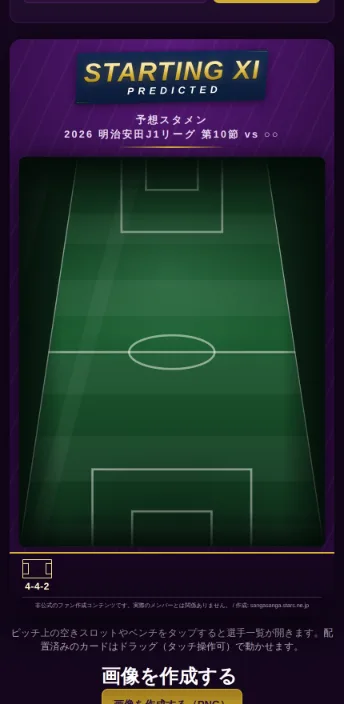
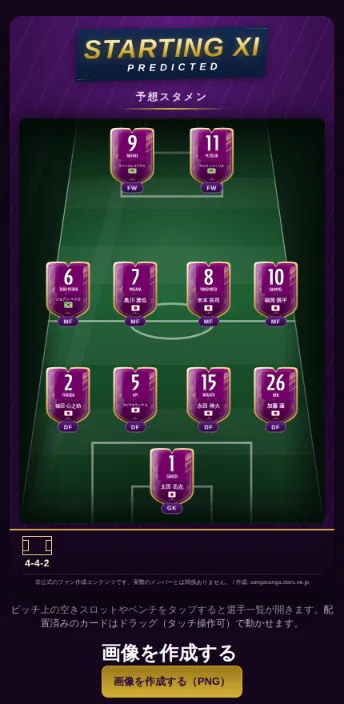
入口ページに作り手のアイコンと自己紹介を入れ、カード下を説明文にする (#187)
* 入口ページのカード下を説明文にし、予想スカッドのサムネイルを撮り直す

- 分類タグをやめ、tools.json の description をそのままカード下に置く。
  参考にしたサイトは短い分類タグだが、道具箱では「何ができるページか」の
  ほうが訪問者が選ぶ助けになる
- 予想スカッドのサムネイルが空のピッチだったので、11人を埋めてから
  撮り直した。何をするツールか絵で伝わらなかった

サムネイルの撮影は public/ をサイトルートとして配信するようにした。
squad.html は /data/players.json をルート起点で読むため、public/ より
上を見せると実データを読めず、同梱の架空サンプルへ落ちていた。

Chromium で検証: 390px幅で1列、1100px幅で2列、カード5件すべてに
説明文とサムネイルが表示、横スクロールなし、ナビのタップ領域44px、
JSエラーと404なし。

* 入口ページのABOUTに作り手の自己紹介を足す

免責より先に置く。誰が作っているかが分かるほうが、非公式のサイトとしては
かえって信用の判断がしやすい。Xへの導線もあわせて置く。

Xのアイコンを入れたときの受け皿（.topbar-mark img）も用意した。画像が
無いあいだは、これまでどおりキャラクターが出る。

Chromium で検証: 自己紹介が表示、Xリンクのタップ領域44px、
390px幅で1列・1100px幅で2列、JSエラーと404なし。

* Add files via upload

* 入口ページの左上を作り手のアイコンにする

アップロードいただいた400×400のPNGを、128×128のWebPへ落として使う
（45.3KB → 4.2KB）。上部バーでの表示は34pxなので、この大きさで足りる。

元画像は白地の正方形なので、丸く抜いたうえで薄い縁を足し、暗い背景から
浮くようにした。絵は34pxだが、リンクの当たり判定は44pxを保つ。

元のPNGは変換元として役目を終えたため削除した。

Chromium で検証: アイコンが読み込まれ34pxで表示、タップ領域44px、
390px幅で1列・1100px幅で2列、JSエラーと404なし。

---------

diff --git a/experiments/site-index/prototype.css b/experiments/site-index/prototype.css
@@ -200,7 +200,10 @@ body {
 }
 
 .topbar-mark {
-  display: block;
+  display: flex;
+  align-items: center;
+  /* 34pxの絵だけだとタップ領域が足りない。当たり判定は44pxにする */
+  min-height: var(--tap);
   width: 34px;
   flex: none;
 }
@@ -338,12 +341,13 @@ body {
   letter-spacing: 0.02em;
 }
 
-.work-tags {
+/* 参考にしたサイトはここが短い分類タグだが、道具箱では
+   「何ができるページか」を1文で置く。分類より用途のほうが選ぶ助けになる */
+.work-desc {
   display: block;
-  margin-top: 3px;
-  font-size: 0.68rem;
-  font-weight: 600;
-  letter-spacing: 0.14em;
+  margin-top: 4px;
+  font-size: 0.8rem;
+  line-height: 1.6;
   color: var(--ink-dim);
 }
 
@@ -384,6 +388,36 @@ body {
 }
 
 .about p { margin: 0 0 8px; max-width: 60ch; }
+
+/* 作り手の自己紹介。免責より先に置き、誰が作っているかを分かるようにする */
+.about-bio {
+  color: var(--ink);
+  font-size: 0.88rem;
+  line-height: 1.9;
+}
+
+.about-handle { margin-bottom: 18px !important; }
+
+.about-handle a {
+  display: inline-flex;
+  align-items: center;
+  min-height: var(--tap);
+  color: var(--cyan-soft);
+  text-decoration: none;
+  letter-spacing: 0.04em;
+}
+
+.about-handle a:hover,
+.about-handle a:focus-visible { text-decoration: underline; }
+
+/* 元画像は白地の正方形。丸く抜いて、暗い背景から浮くように縁を足す */
+.topbar-mark img {
+  display: block;
+  width: 100%;
+  height: auto;
+  border-radius: 50%;
+  box-shadow: 0 0 0 1px rgba(255, 255, 255, 0.28);
+}
 
 .site-footer {
   max-width: 1040px;

diff --git a/experiments/site-index/prototype.html b/experiments/site-index/prototype.html
@@ -23,10 +23,8 @@
 
 <header class="topbar">
   <a class="topbar-mark" href="#top" aria-label="ページの先頭へ">
-    <span class="squircle squircle-sm" aria-hidden="true">
-      <span class="eye"></span>
-      <span class="eye"></span>
-    </span>
+    <!-- 作り手のアイコン。リンクにaria-labelがあるのでaltは空にする -->
+    <img src="avatar.webp" alt="" width="128" height="128" decoding="async">
   </a>
   <nav class="topbar-nav" aria-label="サイト内">
     <a href="#works">TOOLS</a>
@@ -81,6 +79,10 @@
 
 <section class="about" id="about">
   <h2 class="about-title">ABOUT</h2>
+
+  <p class="about-bio">大阪から京都サンガを応援しています／2001年から観戦／主にゴール裏近くのバックスタンド2階／息子小4サッカーチーム所属／彦根出身</p>
+  <p class="about-handle"><a href="https://x.com/kou_osakacity" target="_blank" rel="noopener noreferrer">@kou_osakacity</a></p>
+
   <p>京都サンガF.C.の公式サイトではありません。サポーター有志による非公式のファン作成物です。</p>
   <p>掲載内容の正確性について作成者は責任を負いません。日程・会場・対戦カードなどは、必ず公式発表を確認してください。</p>
 </section>

diff --git a/experiments/site-index/prototype.js b/experiments/site-index/prototype.js
@@ -26,8 +26,6 @@ function buildWork(tool, index) {
   const link = document.createElement("a");
   link.className = "work-link";
   link.href = tool.href;
-  // 説明文はカードには出さない。ポインタを乗せたときだけ補足として見せる
-  if (tool.description) link.title = tool.description;
 
   const thumb = document.createElement("span");
   thumb.className = "work-thumb";
@@ -51,10 +49,10 @@ function buildWork(tool, index) {
   name.textContent = tool.name;
   link.append(name);
 
-  const tags = document.createElement("span");
-  tags.className = "work-tags";
-  tags.textContent = (tool.tags ?? []).join(" , ");
-  link.append(tags);
+  const desc = document.createElement("span");
+  desc.className = "work-desc";
+  desc.textContent = tool.description;
+  link.append(desc);
 
   item.append(link);
   return item;

diff --git a/docs/site-index.md b/docs/site-index.md
@@ -46,7 +46,7 @@
 その構成の要点は3つです。
 
 1. **見出しで区切らない。** 作品を等間隔のグリッドに流す。
-2. **分類は見出しではなくタグで示す。** カード下に「ART DIRECTION , WEB DESIGN」のような小さな欧文を置く。
+2. **分類は見出しではなくカード下のテキストで示す。** 参考サイトは「ART DIRECTION , WEB DESIGN」のような短い分類タグだが、道具箱では `description` の1文をそのまま置く。分類より用途のほうが、訪問者が選ぶ助けになるため。
 3. **一枚絵が主役。** 画面のスクリーンショットを色の面に載せ、その面の色が作品ごとの目印になる。
 
 これを道具箱に置き換えると、作品＝ツールになります。訪問者は「何ができるページか」を、説明文より先に画面の絵で判断できます。
@@ -58,7 +58,7 @@
 | 現役 | 今使えるツール | 年間スケジュール、予想スカッド、求・譲 投稿フォーマット |
 | 過去のページ | 更新していないが残しているもの | 2025シーズン日程、選手が思う"サンガのみりょく" |
 
-以前は「主要ツール／補助ツール／過去のページ」の3区分でしたが、主要と補助を分ける見出しをやめました。3つしかないツールを2つの見出しで割ると、グリッドが細切れになって参考サイトの利点（等間隔に流れる一覧性）が消えるためです。用途の限定は `tags` で表せます。
+以前は「主要ツール／補助ツール／過去のページ」の3区分でしたが、主要と補助を分ける見出しをやめました。3つしかないツールを2つの見出しで割ると、グリッドが細切れになって参考サイトの利点（等間隔に流れる一覧性）が消えるためです。用途の限定は説明文で表せます。
 
 過去のページを載せるのは、直URLで共有されている利用者が戻ってこられるようにするためです。`ARCHIVE` の小見出しの下にまとめ、サムネイルの不透明度を落として、現役のツールと同じ強さでは見せません。
 
@@ -86,7 +86,6 @@
 | `description` | 文字列 | 必須 | 1文の説明。何ができるページかを書く |
 | `href` | 文字列 | 必須 | `public/` からの相対パス。同一サイト内のみ。外部URLは扱わない |
 | `section` | 文字列 | 必須 | `live` / `archive` のいずれか。上記の2区分に対応する |
-| `tags` | 文字列の配列 | 必須 | カード下に出す短い分類。2語程度。`archive` には「更新終了」を含める |
 | `thumb` | 文字列 | 必須 | サムネイル画像への相対パス |
 | `accent` | 文字列 | 必須 | サムネイルの背景に敷く色。`#rrggbb` |
 
@@ -103,7 +102,6 @@
       "href": "sanga202627season.html",
       "thumb": "assets/thumbs/season-schedule.webp",
       "accent": "#7b0064",
-      "tags": ["日程", "参戦記録"],
       "section": "live"
     }
   ]
@@ -115,7 +113,7 @@
 * 掲載順は配列の順序に従う。並べ替え用の項目は持たない。順序を変えたいときは配列を並べ替える。
 * `section` は固定の2値にする。自由な文字列にすると表示側が壊れるため、検証で弾く。
 * サムネイルは持つ。当初は「決まってから足す」としていたが、ポートフォリオ型の構成では絵が主役になるため必須にした。
-* `description` はカードには出さない。`title` 属性と、将来の検索・OGPのために持っておく。
+* `description` はカードに出す。短い分類タグも試したが、道具箱では「何ができるページか」のほうが選ぶ助けになるため、1文の説明に統一した。
 * 個人メモ、運用者メモ、認証情報は含めない（`AGENTS.md`）。
 
 ## 描画方式とJavaScript無効時の扱い
